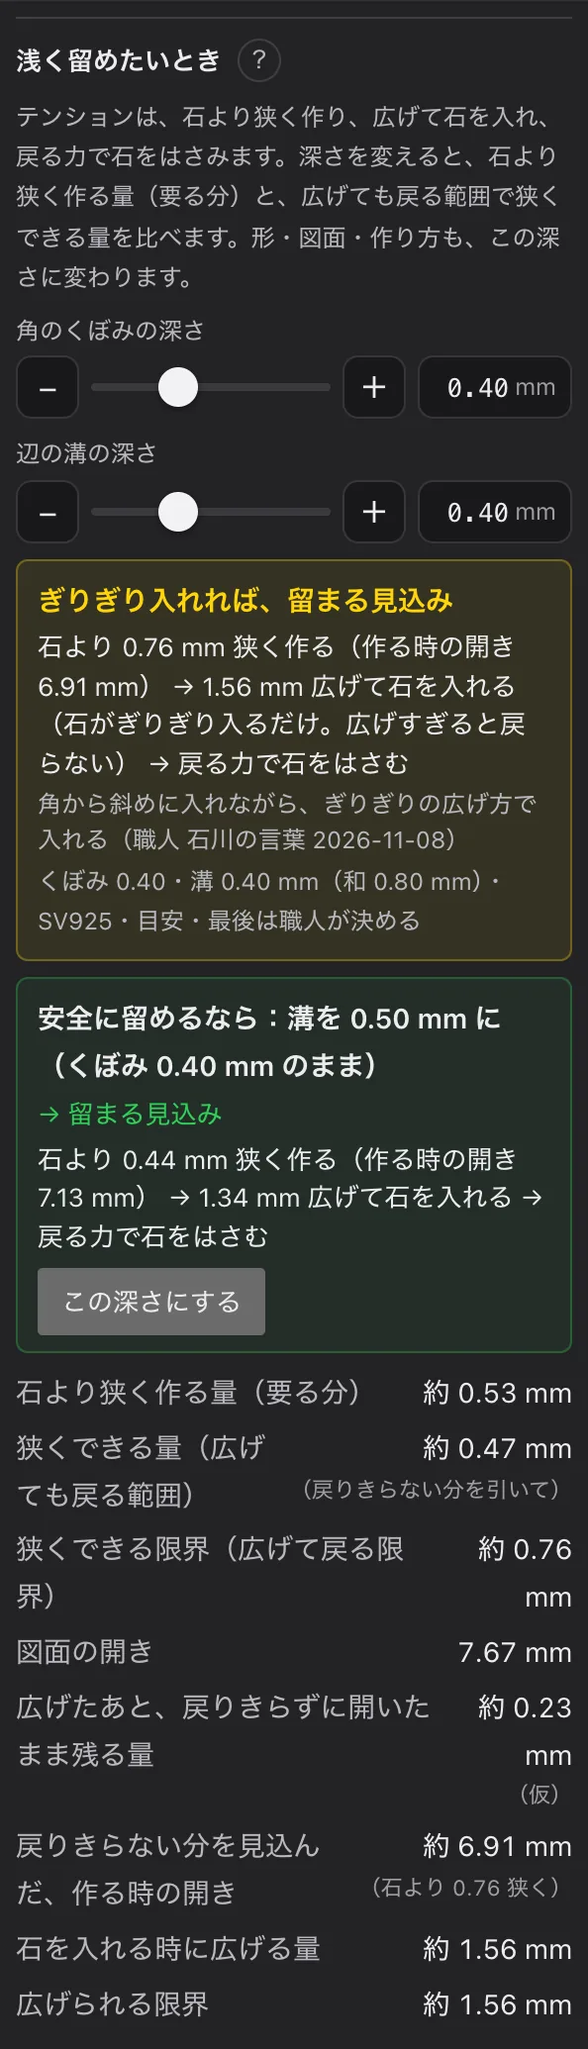
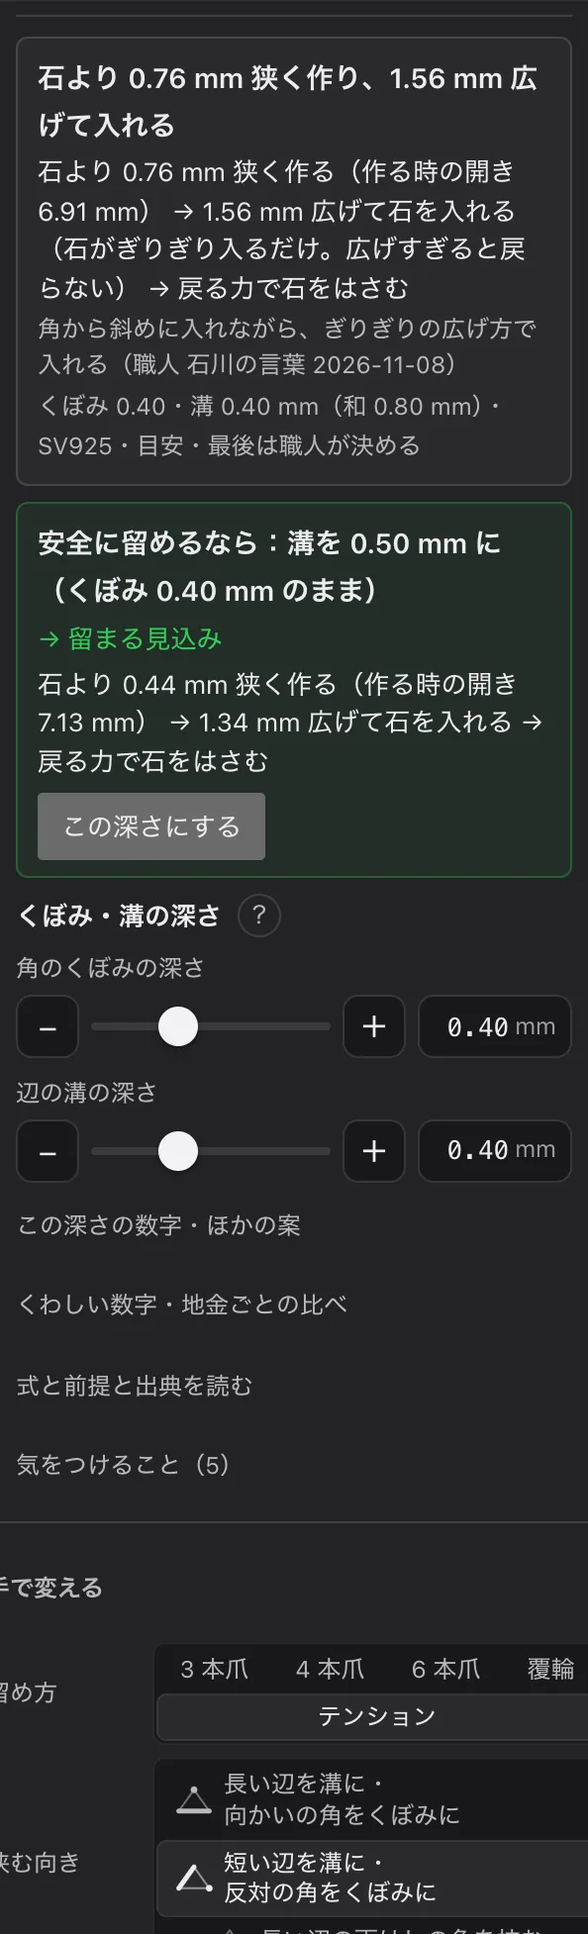
テンションの札：「ぎりぎり入れれば、留まる見込み」をやめ、見出しを作り方そのもの「石より 0.76 mm 狭く作り、1.56 mm 広げて入れる」に（作者の声）
- 広げる量が安全な目安をこえるとき（tight）の見出しを holdHeadline に。色は注意の黄色をやめ、ふつうの字の色に。余裕の少なさは下の緑の「安全に留めるなら」が示す
- 短い言い方（一覧・Claude の答え）は「留まる見込み（広げる量は安全な目安をこえる）」。ほかの案の一覧・言葉の意味・小さな字も、ふつうの言い方に
- 入口のページのテンションの写真を撮り直し、説明の字も直した。PC とスマホの写真は docs/polish/tension/*-after3.jpg
- テスト・Skill・LOG も合わせた

diff --git a/src/studio/main.ts b/src/studio/main.ts
@@ -72,7 +72,7 @@ import { placePoint, rebuildShank } from "../geometry/ring";
 import { ruleApplies, holdPlain } from "../rules/rule-quote";
 import { TENSION_OPENING_NOTE, TENSION_WORDS_NOTE, checkShank, cornerSetCount, grooveNote, shankWidthNote, tensionInsert, tensionNotes, type GrooveNote, type Problem, type WidthNote } from "../rules/checks";
 import { SPRING_PREMISE, springIdOf, springSummary, tensionCautions, tensionSpring, type SpringRow, type SpringTable, type TensionCaution } from "../rules/tension-calc";
-import { adviceLevers, adviceText, HOLD_DEPTH_RANGE, HOLD_INSERT_TIP, HOLD_PREMISE, HOLD_STRAIGHT_NOTE, HOLD_VERDICT_LABEL, HOLD_WORDS, holdAdvice, holdSpringOf, holdSteps, holdTightNote, narrowerText, isAdvised, safeDepthsFor, safeDepthsText, tensionHold, tensionHoldSet } from "../rules/tension-hold";
+import { adviceLevers, adviceText, HOLD_DEPTH_RANGE, HOLD_INSERT_TIP, HOLD_PREMISE, HOLD_STRAIGHT_NOTE, HOLD_VERDICT_LABEL, HOLD_WORDS, holdAdvice, holdHeadline, holdSpringOf, holdSteps, holdTightNote, narrowerText, isAdvised, safeDepthsFor, safeDepthsText, tensionHold, tensionHoldSet } from "../rules/tension-hold";
 import type { TensionGrip } from "../geometry/tension";
 import { presentHtml, STONE_SIZES, type PresentGroup } from "./present";
 import { MAX_SECONDS, playVoice, putVoice, startRecording, voiceIds } from "./voice-notes";
@@ -2537,7 +2537,7 @@ function holdSectionHtml(b: Built, table: SpringTable, compact = false): string 
   const shallow =
     min === null
       ? `<p>この地金・この太さ・この号では、どの深さでも、広げても戻る範囲の狭く作り方では「留まる見込み」になりません${kari}。</p>`
-      : `<p>この指輪（${esc(row.name)}・ø ${table.wireMm.toFixed(1)} mm・${r.shank.gou} 号）で、留まる見込みになるいちばん浅い深さ：両はしの和 約 ${min.toFixed(2)} mm（例：${split(min)} mm。そのとき石より 約 ${tensionHold({ spanMm: table.spanMm, radiusMm: table.radiusMm, wireMm: table.wireMm, massG: r.metalWeightG, spring: holdSpringOf(row, table.factor), depthSumMm: min }, g).squeezeMm.toFixed(2)} mm 狭く作る。戻りきらない分を見込んで）${minTight !== null ? `。ぎりぎり入れる（広げる量が限界の近く）なら 約 ${minTight.toFixed(2)} mm` : ""}${kari}。</p>`;
+      : `<p>この指輪（${esc(row.name)}・ø ${table.wireMm.toFixed(1)} mm・${r.shank.gou} 号）で、留まる見込みになるいちばん浅い深さ：両はしの和 約 ${min.toFixed(2)} mm（例：${split(min)} mm。そのとき石より 約 ${tensionHold({ spanMm: table.spanMm, radiusMm: table.radiusMm, wireMm: table.wireMm, massG: r.metalWeightG, spring: holdSpringOf(row, table.factor), depthSumMm: min }, g).squeezeMm.toFixed(2)} mm 狭く作る。戻りきらない分を見込んで）${minTight !== null ? `。広げる量が安全な目安をこえてよいなら、約 ${minTight.toFixed(2)} mm から` : ""}${kari}。</p>`;
   const parts = set.atAppSqueeze?.work ?? h.work;
   const pct = (v: number) => `${Math.round((100 * v) / Math.max(1e-9, parts.total))} %`;
   const app = set.atAppSqueeze
@@ -2581,9 +2581,9 @@ function holdSectionHtml(b: Built, table: SpringTable, compact = false): string 
     const ok = set.options.filter((o) => o.verdict === "hold");
     if (ok.length) ideas.push(`同じ深さで留まる見込み：${ok.map((o) => `${o.label}（石より狭く作る ${num(o.needSqueezeMm)}・狭くできる ${num(o.safeSqueezeMm)}）`).join("、")}${kari}`);
     const tight = set.options.filter((o) => o.verdict === "tight");
-    if (tight.length) ideas.push(`ぎりぎり入れれば留まる見込み：${tight.map((o) => o.label).join("、")}${kari}`);
+    if (tight.length) ideas.push(`同じ深さで、広げる量が安全な目安をこえる：${tight.map((o) => o.label).join("、")}${kari}`);
   }
-  const verdictHtml = `<p class="tn-verdict ${h.verdict}"><b>${esc(HOLD_VERDICT_LABEL[h.verdict])}</b>${steps ? `<span class="tn-recipe">${esc(steps)}</span>` : ""}${tip ? `<span class="tn-tip">${esc(tip)}</span>` : ""}<small>${esc(ends)} mm（和 ${h.depthSumMm.toFixed(2)} mm）・${esc(row.name)}・目安・最後は職人が決める</small></p>`;
+  const verdictHtml = `<p class="tn-verdict ${h.verdict}"><b>${esc(holdHeadline(h))}</b>${steps ? `<span class="tn-recipe">${esc(steps)}</span>` : ""}${tip ? `<span class="tn-tip">${esc(tip)}</span>` : ""}<small>${esc(ends)} mm（和 ${h.depthSumMm.toFixed(2)} mm）・${esc(row.name)}・目安・最後は職人が決める</small></p>`;
   if (compact) {
     const factsHtml = `<dl class="tn-facts">
       <div><dt>${HOLD_WORDS.need}</dt><dd>${Number.isFinite(h.needSqueezeMm) ? `約 ${h.needSqueezeMm.toFixed(2)} mm` : "—"}</dd></div>
@@ -2609,7 +2609,7 @@ function holdSectionHtml(b: Built, table: SpringTable, compact = false): string 
     <div class="tn-head"><span class="tn-title"><b>浅く留めたいとき</b><button type="button" class="hold-help-btn" aria-expanded="${holdHelpOpen}" aria-controls="hold-help" aria-label="言葉の意味を読む（数字のすぐ下に出ます）">？</button></span></div>
     <small class="tn-note">テンションは、石より狭く作り、広げて石を入れ、戻る力で石をはさみます。深さを変えると、石より狭く作る量（要る分）と、広げても戻る範囲で狭くできる量を比べます。形・図面・作り方も、この深さに変わります。</small>
     <div class="sliders">${holdSliders(b).map(sliderHtml).join("")}</div>
-    <p class="tn-verdict ${h.verdict}"><b>${esc(HOLD_VERDICT_LABEL[h.verdict])}</b>${steps ? `<span class="tn-recipe">${esc(steps)}</span>` : ""}${tip ? `<span class="tn-tip">${esc(tip)}</span>` : ""}<small>${esc(ends)} mm（和 ${h.depthSumMm.toFixed(2)} mm）・${esc(row.name)}・目安・最後は職人が決める</small></p>
+    <p class="tn-verdict ${h.verdict}"><b>${esc(holdHeadline(h))}</b>${steps ? `<span class="tn-recipe">${esc(steps)}</span>` : ""}${tip ? `<span class="tn-tip">${esc(tip)}</span>` : ""}<small>${esc(ends)} mm（和 ${h.depthSumMm.toFixed(2)} mm）・${esc(row.name)}・目安・最後は職人が決める</small></p>
     ${safeHtml}
     <dl class="tn-facts">
       <div><dt>${HOLD_WORDS.need}</dt><dd>${Number.isFinite(h.needSqueezeMm) ? `約 ${h.needSqueezeMm.toFixed(2)} mm` : "—"}</dd></div>
@@ -2673,7 +2673,7 @@ function holdHelpHtml(dropMm: number, setRatio: number): string {
     [HOLD_WORDS.gap, "石が入ったときの、腕の両はしの間。石の長さから、くぼみと溝の深さを引いた長さです。"],
     [HOLD_WORDS.need, `石を入れたあとも、開きが石より（図面の開きより）これだけ狭いまま残っていてほしい量。指輪を ${(dropMm / 1000).toFixed(1)} m の高さから落として石から当たっても外れない、という仮の目安から出しています。浅いほど多く要ります。広げたあと戻りきらない分があるので、作るときは、もう少し狭く作ります。`],
     [HOLD_WORDS.safe, "石より狭く作って、広げて石を入れても、腕が元にもどれる範囲の量。太い線は内側が先に曲がるので、それを見た控えめな値です。広げたあと戻りきらない分を引いて出します。"],
-    [HOLD_WORDS.limit, `細い線として計算した、広げても戻れるいちばん大きい量。安全な量と限界の間なら「${HOLD_VERDICT_LABEL.tight}」（石がぎりぎり入るだけ広げる）、限界をこえると腕が戻らなくなります。`],
+    [HOLD_WORDS.limit, `細い線として計算した、広げても戻れるいちばん大きい量。安全な量と限界の間なら、広げる量は安全な目安をこえます（石が入るだけ広げ、それ以上は広げない）。限界をこえると腕が戻らなくなります。`],
     [HOLD_WORDS.set, `広げて離すと、地金は元に戻りきらず、少し開いたまま残ります（職人の例：1 で作って 1.5 まで広げると、1 に戻らず 1.2 ぐらい）。この計算は、安全な限界まで広げると、広げた分の 約 ${Math.round(setRatio * 100)} % が残る、としています（仮。帳面で変えられます）。`],
     [HOLD_WORDS.makeWithSet, "図面の開きから、石より狭く作る量と、戻りきらない分を引いた開き。この開きで作ると、石を入れたあとに、要る分だけ狭いまま残り、石をはさみます。"],
     [HOLD_WORDS.spread, "作るときの開きから、石が通るまで広げる量（くぼみと溝の深さ ＋ 石より狭く作った量）。"],

diff --git a/src/rules/tension-hold.ts b/src/rules/tension-hold.ts
@@ -37,16 +37,19 @@ import {
 export { dropWorkNmm, frictionFactor, holdWork, ringStiffnessNPerMm, type HoldWork };
 
 /**
- * 留まる見込み／ぎりぎり入れれば、留まる見込み／この地金・この太さでは足りない。
+ * 留まる見込み／留まる見込み（広げる量は安全な目安をこえる）／この地金・この太さでは足りない。
  * tight は前は「ぎりぎり・職人が確かめる」。作者の声（2026-11-08）：「結局職人が確かめてるんかい」。
- * 計算はもう、どうすれば留まるか（石より狭く作り、石がぎりぎり入るだけ広げて入れ、戻る力ではさむ）を知っているので、それを言う。
+ * 計算はもう、どうすれば留まるか（石より狭く作り、石が入るだけ広げて入れ、戻る力ではさむ）を知っているので、それを言う。
  * そのあと「限界まで広げて入れれば」も直した（作者の声 2026-11-08）：「限界いっぱい」ではなく、石がぎりぎり入るだけ広げる。広げすぎると戻らない。
+ * さらに「ぎりぎり入れれば、留まる見込み」という言い方も要らない（作者の声 2026-11-08）。札の見出しは、作り方そのもの
+ * （holdHeadline：「石より 0.76 mm 狭く作り、1.56 mm 広げて入れる」）。余裕が少ないことは、すぐ下の「安全に留めるなら」の案が示す。
+ * ここの言葉は、一覧や道具の答えに使う短い言い方。
  * 戻りきらない分の値は仮なので、それは小さな字と「式と前提」に書く（holdTightNote）
  */
 export type HoldVerdict = "hold" | "tight" | "short";
 export const HOLD_VERDICT_LABEL: Record<HoldVerdict, string> = {
   hold: "留まる見込み",
-  tight: "ぎりぎり入れれば、留まる見込み",
+  tight: "留まる見込み（広げる量は安全な目安をこえる）",
   short: "この地金・この太さでは足りない",
 };
 
@@ -92,7 +95,7 @@ export interface HoldResult {
   limitSqueezeMm: number;
   /**
    * 戻りきらない分を引いた、石を入れたあとに残せる締まりの最大：安全に（広げる量が safe まで）と、限界まで（広げる量が limit まで）。
-   * 要る量が safeEffectiveMm の内なら「留まる見込み」。超えても limitSqueezeMm（戻りきらない分を見ない前の計算）の内なら「ぎりぎり」
+   * 要る量が safeEffectiveMm の内なら「留まる見込み」。超えても limitSqueezeMm（戻りきらない分を見ない前の計算）の内なら tight（広げる量は安全な目安をこえる）
    */
   safeEffectiveMm: number;
   limitEffectiveMm: number;
@@ -296,12 +299,12 @@ export function setSummary(h: HoldResult): string {
 /** 広げられる限界（細い輪の式。mm）＝ 狭くできる限界 ＋ 深さの和 */
 const spreadLimitOf = (h: HoldResult) => h.limitSqueezeMm + h.depthSumMm;
 
-/** ぎりぎり入れるとき（tight）の、広げる量の添え書き（作者の声 2026-11-08：「限界いっぱい」ではなく、石がぎりぎり入るだけ。広げすぎると戻らない） */
+/** 広げる量が安全な目安をこえるとき（tight）の、広げる量の添え書き（作者の声 2026-11-08：「限界いっぱい」ではなく、石がぎりぎり入るだけ。広げすぎると戻らない） */
 export const HOLD_SPREAD_NOTE = "（石がぎりぎり入るだけ。広げすぎると戻らない）";
 
 /**
  * 作る手順の一行（作者の声 2026-11-08：本当の順に）。石より狭く作る → 広げて石を入れる → 戻る力で石をはさむ。
- * 足りないとき（short）は、留まる作り方がないので null。ぎりぎり入れるとき（tight）は、広げすぎないことを添える
+ * 足りないとき（short）は、留まる作り方がないので null。広げる量が安全な目安をこえるとき（tight）は、広げすぎないことを添える
  */
 export function holdSteps(h: HoldResult): string | null {
   if (h.verdict === "short") return null;
@@ -309,6 +312,16 @@ export function holdSteps(h: HoldResult): string | null {
   // 狭く作る量が 0 のときに「石より 0.00 mm 狭く作る」と出していた（2026-11-08 初めての人の試し）。言葉で言う
   const make = isNoSqueeze(h.squeezeMm) ? `図面の開きのまま作る（石より狭くしない。くぼみ・溝の深さで留める。開き ${h.makeGapMm.toFixed(2)} mm）` : `石より ${h.squeezeMm.toFixed(2)} mm 狭く作る（作る時の開き ${h.makeGapMm.toFixed(2)} mm）`;
   return `${make} → ${h.spreadMm.toFixed(2)} mm 広げて石を入れる${note} → 戻る力で石をはさむ`;
+}
+
+/**
+ * 札の見出し。tight は作り方そのもの（作者の声 2026-11-08：「ぎりぎり入れれば、留まる見込み」のような言い方は要らない）。
+ * 例：「石より 0.76 mm 狭く作り、1.56 mm 広げて入れる」。hold・short は HOLD_VERDICT_LABEL のまま
+ */
+export function holdHeadline(h: HoldResult): string {
+  if (h.verdict !== "tight") return HOLD_VERDICT_LABEL[h.verdict];
+  const make = isNoSqueeze(h.squeezeMm) ? "図面の開きのまま作り" : `石より ${h.squeezeMm.toFixed(2)} mm 狭く作り`;
+  return `${make}、${h.spreadMm.toFixed(2)} mm 広げて入れる`;
 }
 
 /** 狭く作る量が、画面の細かさ（0.01 mm）で 0 か */
@@ -336,11 +349,11 @@ export const HOLD_STRAIGHT_NOTE =
   "広げる量は、石をまっすぐ入れるとして、腕の両はしが石の長さいっぱいまで開く量で計算しています。角から斜めに入れると、もっと少なく広げて済むことがあります（斜めに入れる分は、まだ計算に入れていません）";
 
 /**
- * ぎりぎり入れるとき（tight）の小さな字：戻りきらない分の値は仮なので、見込んだときの倍をここに。ほかは null
+ * 広げる量が安全な目安をこえるとき（tight）の小さな字：戻りきらない分の値は仮なので、見込んだときの倍をここに。ほかは null
  */
 export function holdTightNote(h: HoldResult): string | null {
   if (h.verdict !== "tight") return null;
-  return `「${HOLD_VERDICT_LABEL.tight}」は、広げる量が安全な目安をこえ、限界 約 ${spreadLimitOf(h).toFixed(2)} mm の近くまで要る、という意味です。石がぎりぎり入るだけ広げ、それ以上は広げません。広げたあと戻りきらない分（仮）約 ${h.setMm.toFixed(2)} mm を見込むと、外れにくさは求める分の 約 ${h.margin.toFixed(2)} 倍。戻りきらない割合は仮の値です`;
+  return `この作り方は、広げる量が安全な目安をこえ、限界 約 ${spreadLimitOf(h).toFixed(2)} mm の近くまで要ります。石が入るだけ広げ、それ以上は広げません。広げたあと戻りきらない分（仮）約 ${h.setMm.toFixed(2)} mm を見込むと、外れにくさは求める分の 約 ${h.margin.toFixed(2)} 倍。戻りきらない割合は仮の値です`;
 }
 
 /** 深さのつまみの範囲と刻み（mm。形を作るための決まり。作者の頼み 2026-11-07「0.2〜0.8 mm くらい」） */

diff --git a/tests/tension-hold.test.ts b/tests/tension-hold.test.ts
@@ -165,7 +165,7 @@ describe("作者の本物の指輪（SV925・φ4・14 号・三角）", () => {
     expect(set.now.safeSqueezeMm - set.now.needSqueezeMm).toBeLessThan(0.03);
     // 戻りきらない分（仮）を入れると、安全な限界まで広げて 約 0.07 mm 開いたまま残り、残せる締まりは 約 0.47 mm。安全な目安では要る量に届かない
     expect(set.now.safeEffectiveMm).toBeCloseTo(0.474, 2);
-    // 限界（約 1.56 mm）まで広げれば届く：「ぎりぎり入れれば、留まる見込み」（前は「ぎりぎり・職人が確かめる」。2026-11-08 作者の声）
+    // 限界（約 1.56 mm）まで広げれば届く：「留まる見込み（広げる量は安全な目安をこえる）」。札の見出しは作り方そのもの（前は「ぎりぎり・職人が確かめる」→「ぎりぎり入れれば、留まる見込み」。2026-11-08 作者の声）
     expect(set.now.verdict).toBe("tight");
     // 図面の開き ＝ 角から短い辺までの長さ − 0.8 mm（約 7.66）。限界いっぱいまで広げる作り方で、石より 約 0.76 mm 狭く、作る時の開き 約 6.90
     expect(set.now.gapMm).toBeCloseTo(i.spanMm - 0.8, 6);
@@ -266,7 +266,7 @@ describe("作者の本物の指輪（SV925・φ4・14 号・三角）", () => {
     const r = authorRing("side", 0.3, 0.3);
     const c = holdForClaude(holdOf(r));
     expect(c.depth_sum_mm).toBeCloseTo(0.6, 6);
-    expect(c.verdict).toBe("ぎりぎり入れれば、留まる見込み");
+    expect(c.verdict).toBe("留まる見込み（広げる量は安全な目安をこえる）");
     expect(c.note).toContain("仮");
     const steps = howToMake({ ring: r, outlineMm: tri().outlineMm, longMm: 8.88, widthMm: 7.52, depthMm: 4.24, metalLabel: "SV925", springMetal: "sv925" }, "hand");
     const close = steps.find((s) => s.id === "tension_close")!;
@@ -274,7 +274,7 @@ describe("作者の本物の指輪（SV925・φ4・14 号・三角）", () => {
     expect(depth.value).toContain("くぼみ 0.30");
     expect(depth.value).toContain("溝 0.30");
     const hold = close.specs.find((x) => x.label.startsWith("外れにくさ"))!;
-    expect(hold.value).toContain("ぎりぎり入れれば、留まる見込み");
+    expect(hold.value).toContain("留まる見込み（広げる量は安全な目安をこえる）");
     expect(hold.value).toContain("最後は職人が決める");
   });
 
@@ -285,13 +285,13 @@ describe("作者の本物の指輪（SV925・φ4・14 号・三角）", () => {
     // 短い辺を溝に・反対の角をくぼみに の既定は、職人の値 角のくぼみ 0.4 mm・辺の溝 0.4 mm（作者が実際に作った指輪を見た感じの深さ）
     expect(s.built!.ring.setting.tension!.ends.map((e) => e.depthMm)).toEqual([0.4, 0.4]);
     // 戻りきらない分（仮）を見込むと、作者の 0.4 / 0.4 はぎりぎり（前は留まる見込み）
-    expect(s.check().tension_calc!.hold!.verdict).toBe("ぎりぎり入れれば、留まる見込み");
+    expect(s.check().tension_calc!.hold!.verdict).toBe("留まる見込み（広げる量は安全な目安をこえる）");
     s.setTensionDepths(0.5, 0.5);
     expect(s.built!.ring.setting.tension!.ends.map((e) => e.depthMm)).toEqual([0.5, 0.5]);
     expect(s.check().tension_calc!.hold!.verdict).toBe("留まる見込み");
     s.setTensionDepths(0.3, 0.3);
     expect(s.built!.ring.setting.tension!.ends.map((e) => e.depthMm)).toEqual([0.3, 0.3]);
-    expect(s.check().tension_calc!.hold!.verdict).toBe("ぎりぎり入れれば、留まる見込み");
+    expect(s.check().tension_calc!.hold!.verdict).toBe("留まる見込み（広げる量は安全な目安をこえる）");
     s.setTensionDepths(undefined, undefined);
     expect(s.built!.ring.setting.tension!.ends.map((e) => e.depthMm)).toEqual([0.4, 0.4]);
     // 長い辺を溝に入れる向きに戻すと（既定はおすすめ）

diff --git a/src/lp/main.ts b/src/lp/main.ts
@@ -349,7 +349,7 @@ const html = `
       </div>
     </div>
     <div class="ten-body">
-      <figure class="ten-card rv">${img("tension-card", "設計の画面のテンションの札。角のくぼみ 0.40 mm・辺の溝 0.40 mm、答えは「ぎりぎり入れれば、留まる見込み」。手順は、石より 0.76 mm 狭く作る（作る時の開き 6.91 mm）→ 1.56 mm 広げて石を入れる（石がぎりぎり入るだけ。広げすぎると戻らない）→ 戻る力で石をはさむ。職人の言葉「角から斜めに入れながら、ぎりぎりの広げ方で入れる」。その下に、安全に留めるなら溝を 0.50 mm に（くぼみ 0.40 mm のまま）で「留まる見込み」。石より狭く作る量（要る分）約 0.53 mm、狭くできる量（広げても戻る範囲）約 0.47 mm", "(max-width: 760px) 80vw, 340px")}<figcaption>設計の画面の札。職人の指輪と同じ値（SV925・14 号・くぼみ 0.4 mm・溝 0.4 mm）を入れると「ぎりぎり入れれば、留まる見込み」。作る時の開きと広げる量、安全に留める深さ（溝を 0.50 mm に）も、その場で出します（目安・最後は職人が決める）。</figcaption></figure>
+      <figure class="ten-card rv">${img("tension-card", "設計の画面のテンションの札。角のくぼみ 0.40 mm・辺の溝 0.40 mm、見出しは作り方そのもの「石より 0.76 mm 狭く作り、1.56 mm 広げて入れる」。手順は、石より 0.76 mm 狭く作る（作る時の開き 6.91 mm）→ 1.56 mm 広げて石を入れる（石がぎりぎり入るだけ。広げすぎると戻らない）→ 戻る力で石をはさむ。職人の言葉「角から斜めに入れながら、ぎりぎりの広げ方で入れる」。その下に、安全に留めるなら溝を 0.50 mm に（くぼみ 0.40 mm のまま）で「留まる見込み」。石より狭く作る量（要る分）約 0.53 mm、狭くできる量（広げても戻る範囲）約 0.47 mm", "(max-width: 760px) 80vw, 340px")}<figcaption>設計の画面の札。職人の指輪と同じ値（SV925・14 号・くぼみ 0.4 mm・溝 0.4 mm）を入れると「石より 0.76 mm 狭く作り、1.56 mm 広げて入れる」と、作り方そのものを出します。作る時の開き、安全に留める深さ（溝を 0.50 mm に）も、その場で出します（目安・最後は職人が決める）。</figcaption></figure>
       <div class="ten-side">
         <table class="ten-t rv">
           <caption>同じ石・同じ腕で、地金ごとに（mm）</caption>

diff --git a/src/studio/pro.css b/src/studio/pro.css
@@ -1188,8 +1188,9 @@ html.fit .command { flex: 1 1 320px; min-width: 0; }
 .tn-verdict .tn-tip { font-size: 12px; color: var(--fg-2); line-height: 1.5; }
 .tn-verdict.hold { background: rgba(48, 209, 88, 0.08); border-color: rgba(48, 209, 88, 0.3); }
 .tn-verdict.hold b { color: #30d158; }
-.tn-verdict.tight { background: rgba(255, 214, 10, 0.08); border-color: rgba(255, 214, 10, 0.3); }
-.tn-verdict.tight b { color: #ffd60a; }
+/* tight の見出しは作り方そのもの（作者の声 2026-11-08）。注意の色にしない。余裕の少なさは下の「安全に留めるなら」が示す */
+.tn-verdict.tight { background: rgba(255, 255, 255, 0.03); }
+.tn-verdict.tight b { color: var(--fg); }
 .tn-verdict.short { background: rgba(255, 69, 58, 0.08); border-color: rgba(255, 69, 58, 0.3); }
 .tn-verdict.short b { color: #ff6961; }
 .tn-ideas { margin: 0; padding: 0 0 0 1.1em; display: grid; gap: 4px; font-size: 13px; color: var(--fg-2); }

diff --git a/.claude/skills/jeweler-guides/SKILL.md b/.claude/skills/jeweler-guides/SKILL.md
@@ -66,7 +66,7 @@ description: 一粒石の指輪の石座（覆輪・爪・V字の爪・テンシ
 本物の指輪をこの形で作る。値は `GUIDES.tension`（`src/rules/guides.ts` の 1 か所）。形は `src/geometry/tension.ts`、確かめは `src/rules/checks.ts` の `checkTension`・`tensionNotes`。調べは `docs/RESEARCH-tension.md`。
 
 - ~~職人の言葉：「角はくぼみに 0.8 ミリとかで。辺は溝に 0.5 mm」~~（2026-11-07 に外した。作者「適当に言ってるだけ。気にしなくていい。忘れてもいい」。帳面 `rule-tension-depth-ishikawa` は retired。`cornerPitMm`・`edgeGrooveMm` は前の値として残すだけで、既定には使わない）。深さの既定は、三角の短い辺を溝に（side）は職人の値、ほかは下の「戻りきらない分とおすすめ」の計算（**仮**）。
-- 職人の言葉（2026-11-07）：三角の短い辺を溝に・反対の角をくぼみに（挟む向き side）は、角のくぼみ 0.4 mm・辺の溝 0.4 mm（`shortSidePitMm`・`shortSideGrooveMm`、帳面 `rule-tension-side-ishikawa`）。実際に作った指輪（SV925・φ4・14 号）を見た感じの値（同じ日に「くぼみも溝も 0.5 ぐらい」→「角のくぼみ 0.4、辺の溝 0.3」→「溝はたぶん 0.4」と直した。測った値ではない）。この深さ（和 0.8 mm）だと、外れにくさの目安は、戻りきらない分を入れる前は「留まる見込み」（石を留めるのに縮める量が、安全に縮められる量にやっと収まる）、入れたあとは「ぎりぎり入れれば、留まる見込み」（2026-11-08 に言いかえた。前は「ぎりぎり・職人が確かめる」。**仮**の計算。下の「戻りきらない分とおすすめ」）。安全に留めるなら溝を 0.50 mm に（くぼみ 0.40 mm のまま）で「留まる見込み」（画面の答えのすぐ下の案。`safeDepths`）。「硬い状態でないと取れる」。資料に mm の数字はない。
+- 職人の言葉（2026-11-07）：三角の短い辺を溝に・反対の角をくぼみに（挟む向き side）は、角のくぼみ 0.4 mm・辺の溝 0.4 mm（`shortSidePitMm`・`shortSideGrooveMm`、帳面 `rule-tension-side-ishikawa`）。実際に作った指輪（SV925・φ4・14 号）を見た感じの値（同じ日に「くぼみも溝も 0.5 ぐらい」→「角のくぼみ 0.4、辺の溝 0.3」→「溝はたぶん 0.4」と直した。測った値ではない）。この深さ（和 0.8 mm）だと、外れにくさの目安は、戻りきらない分を入れる前は「留まる見込み」（石を留めるのに縮める量が、安全に縮められる量にやっと収まる）、入れたあとは、広げる量が安全な目安をこえる（画面の見出しは作り方そのもの「石より 0.76 mm 狭く作り、1.56 mm 広げて入れる」。短い言い方は「留まる見込み（広げる量は安全な目安をこえる）」。2026-11-08 に言いかえた。前は「ぎりぎり・職人が確かめる」→「ぎりぎり入れれば、留まる見込み」。**仮**の計算。下の「戻りきらない分とおすすめ」）。安全に留めるなら溝を 0.50 mm に（くぼみ 0.40 mm のまま）で「留まる見込み」（画面の答えのすぐ下の案。`safeDepths`）。「硬い状態でないと取れる」。資料に mm の数字はない。
 - 職人の言葉（2026-11-08）：石は「角から斜めに入れながら、ぎりぎりの広げ方で入れる」（帳面 `rule-tension-insert-ishikawa`、工程は石を入れる）。広げるのは石がぎりぎり入るだけ。広げすぎると戻らない（「限界いっぱい」とは言わない）。計算の広げる量は、石をまっすぐ入れて石の長さいっぱいまで開く量なので、斜めに入れるともっと少なくて済むことがある（斜めの分は計算に入れていない）。
 - 石：既定の三角。高さ（角 ↔ 向かいの辺）を腕の周りの向きに置く。長い辺は腕の幅より長く、両わきへはみ出す。角がくぼみで止まるので、石は横にずれない。
 - 腕：φ4 mm の丸線（`wireMm`。断面「丸線」は内側も丸い）。太さと号は変えられる。
